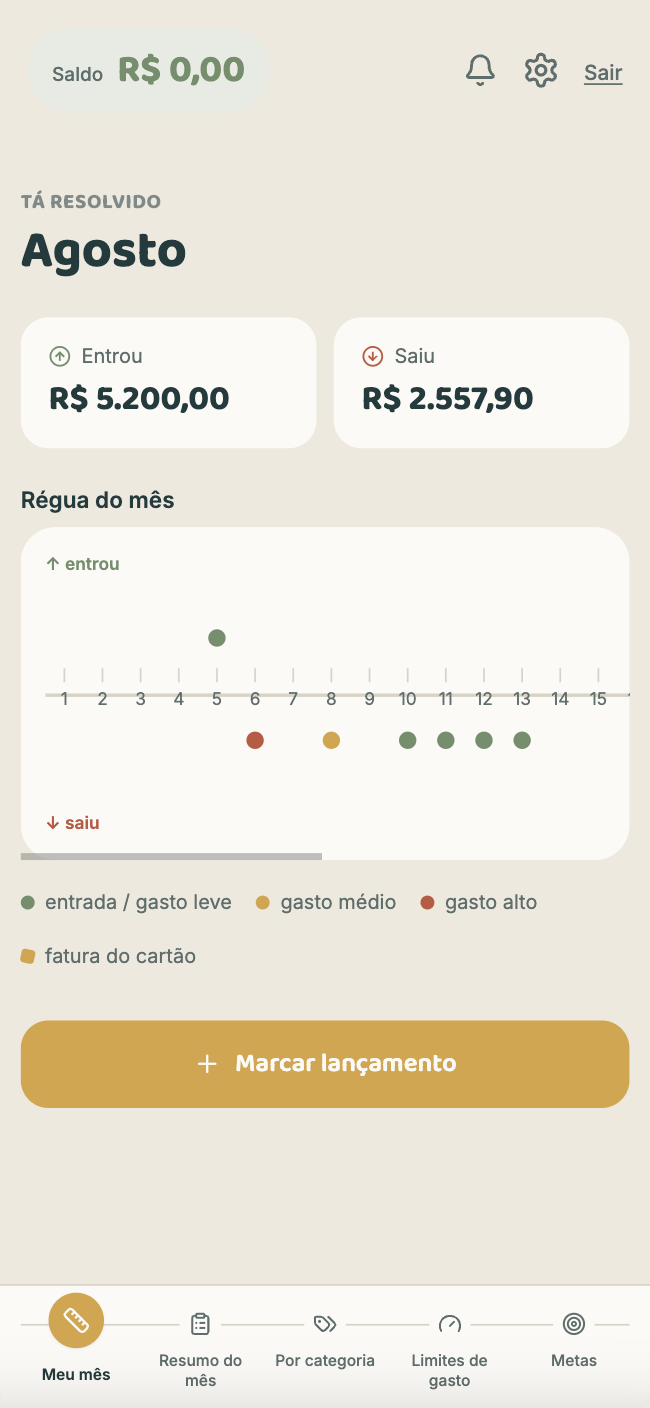
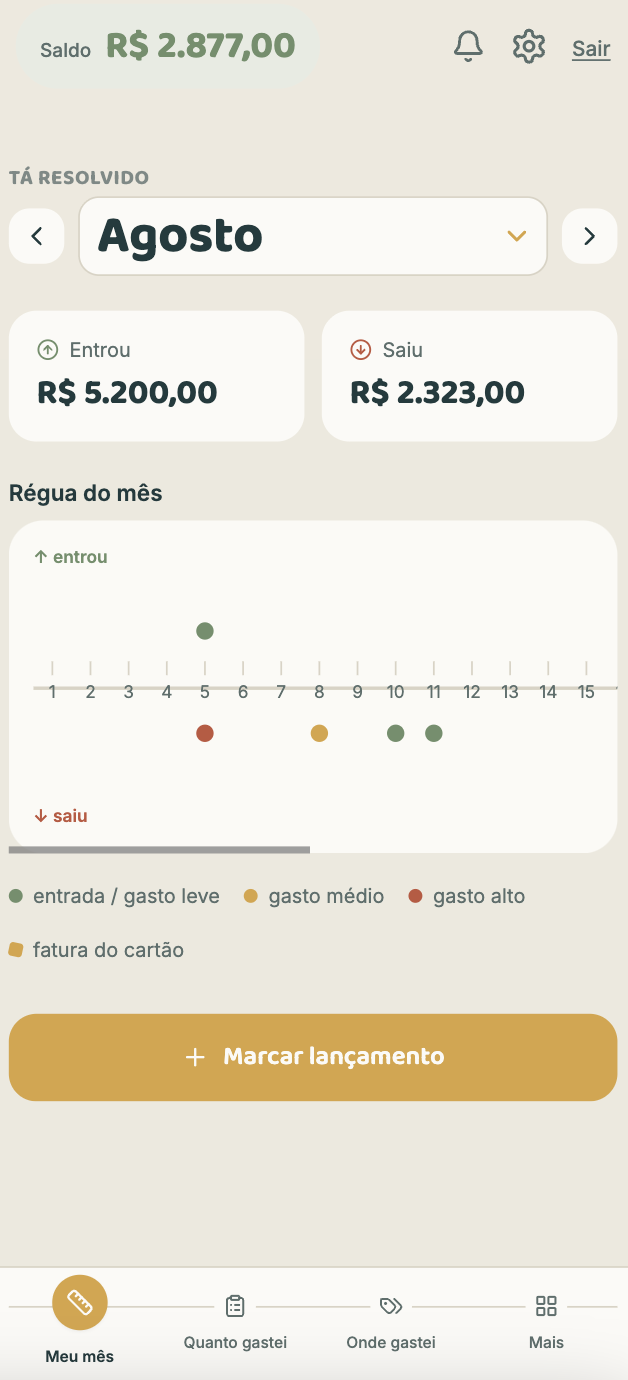
Atualiza os prints da página de vendas e mostra o chat em ação
- Régua atualizada, com o novo seletor de mês (a versão antiga já
  mostrava a interface desatualizada).
- Novo print do chat, mostrando o reconhecimento de dois lançamentos
  numa frase só, incluindo o selo de cartão de crédito — o diferencial
  estava só em texto, agora tem prova visual.

diff --git a/app/page.tsx b/app/page.tsx
@@ -33,7 +33,11 @@ const FREE_FEATURES = [
 
 const PAID_FEATURES: { text: string; image?: string; imageHeight?: number }[] = [
   { text: "Fotos e PDFs sem limite — manda o extrato inteiro de uma vez, sem digitar gasto por gasto" },
-  { text: "Escreve numa frase o que gastou e a IA lança sozinho, categorizado" },
+  {
+    text: "Escreve numa frase o que gastou e a IA lança sozinho, categorizado — até identifica quando foi no cartão",
+    image: "/chat-preview.png",
+    imageHeight: 829,
+  },
   { text: "Seu salário e as contas fixas já entram sozinhos, mês após mês" },
   { text: "Um resumo do seu mês pronto, sem precisar montar gráfico nenhum" },
   {
@@ -167,8 +171,8 @@ export default async function RootPage() {
           <Image
             src="/regua-preview.png"
             alt="Tela da régua do mês no Tá Resolvido, mostrando o total que entrou e saiu no mês e cada gasto marcado dia a dia"
-            width={650}
-            height={1408}
+            width={628}
+            height={1380}
             className="w-full"
           />
         </div>
